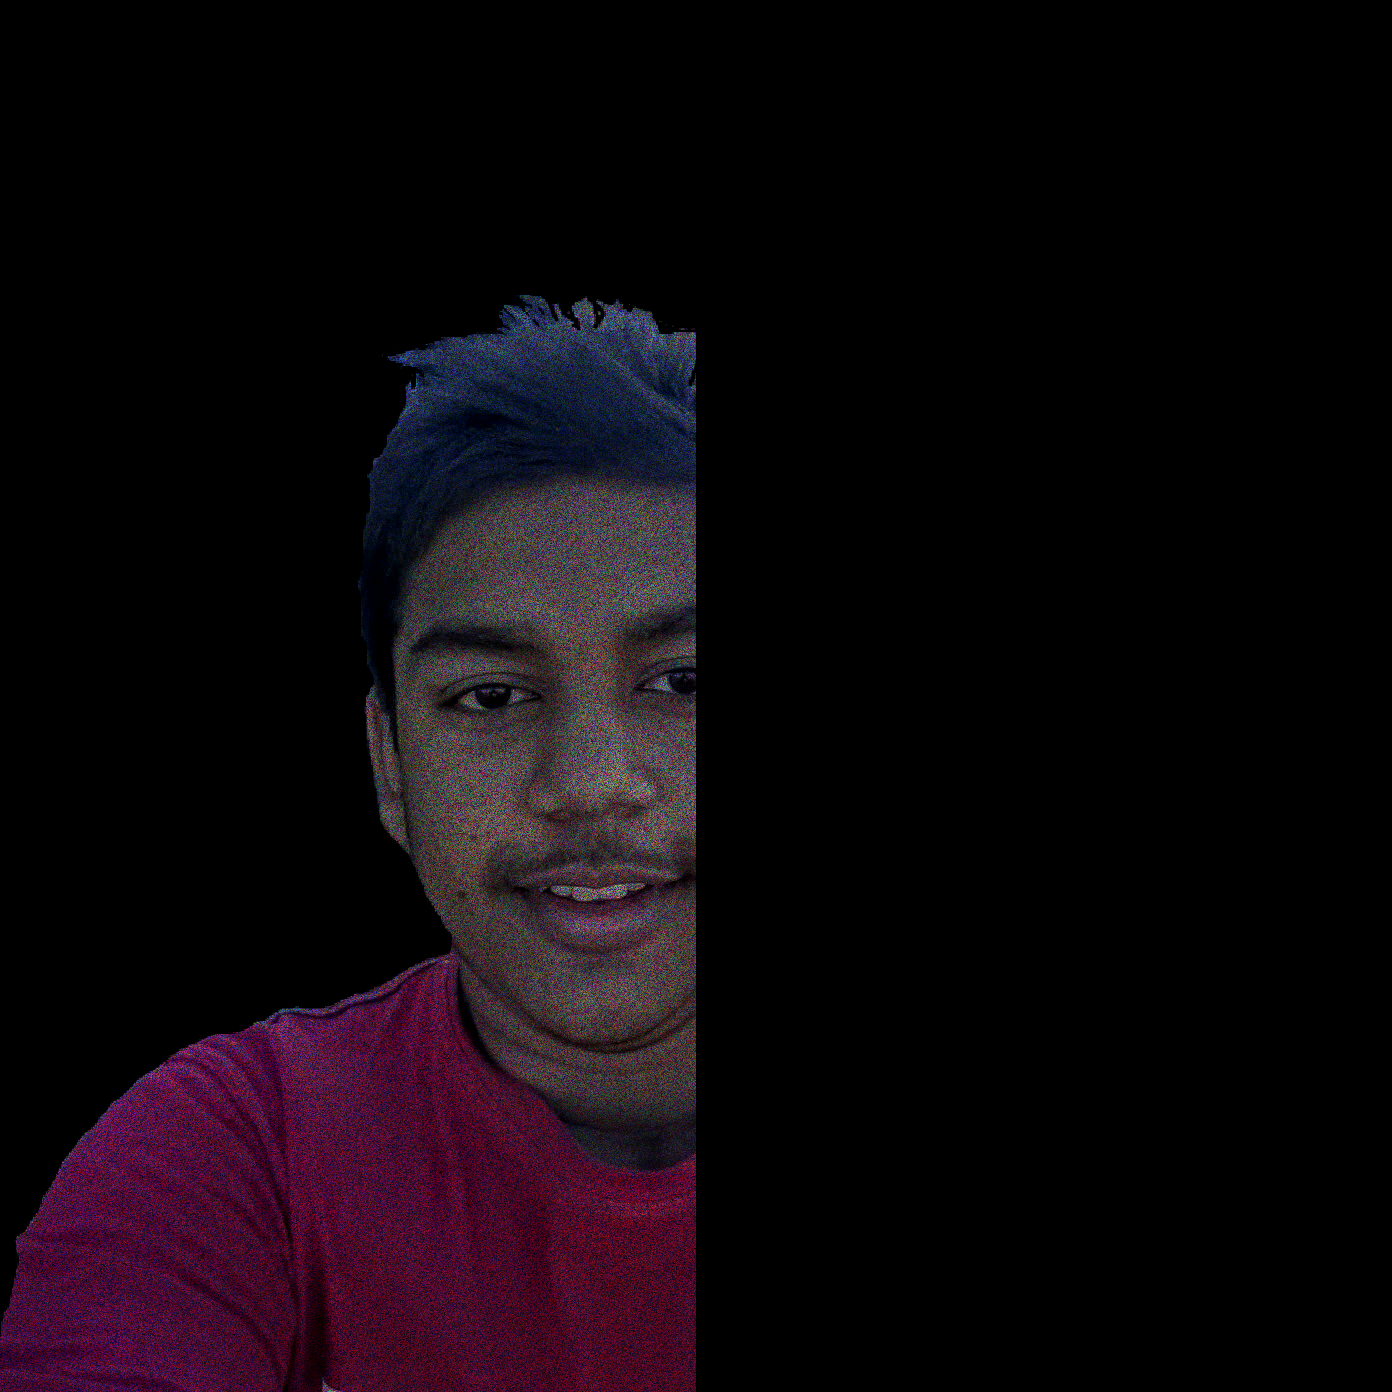
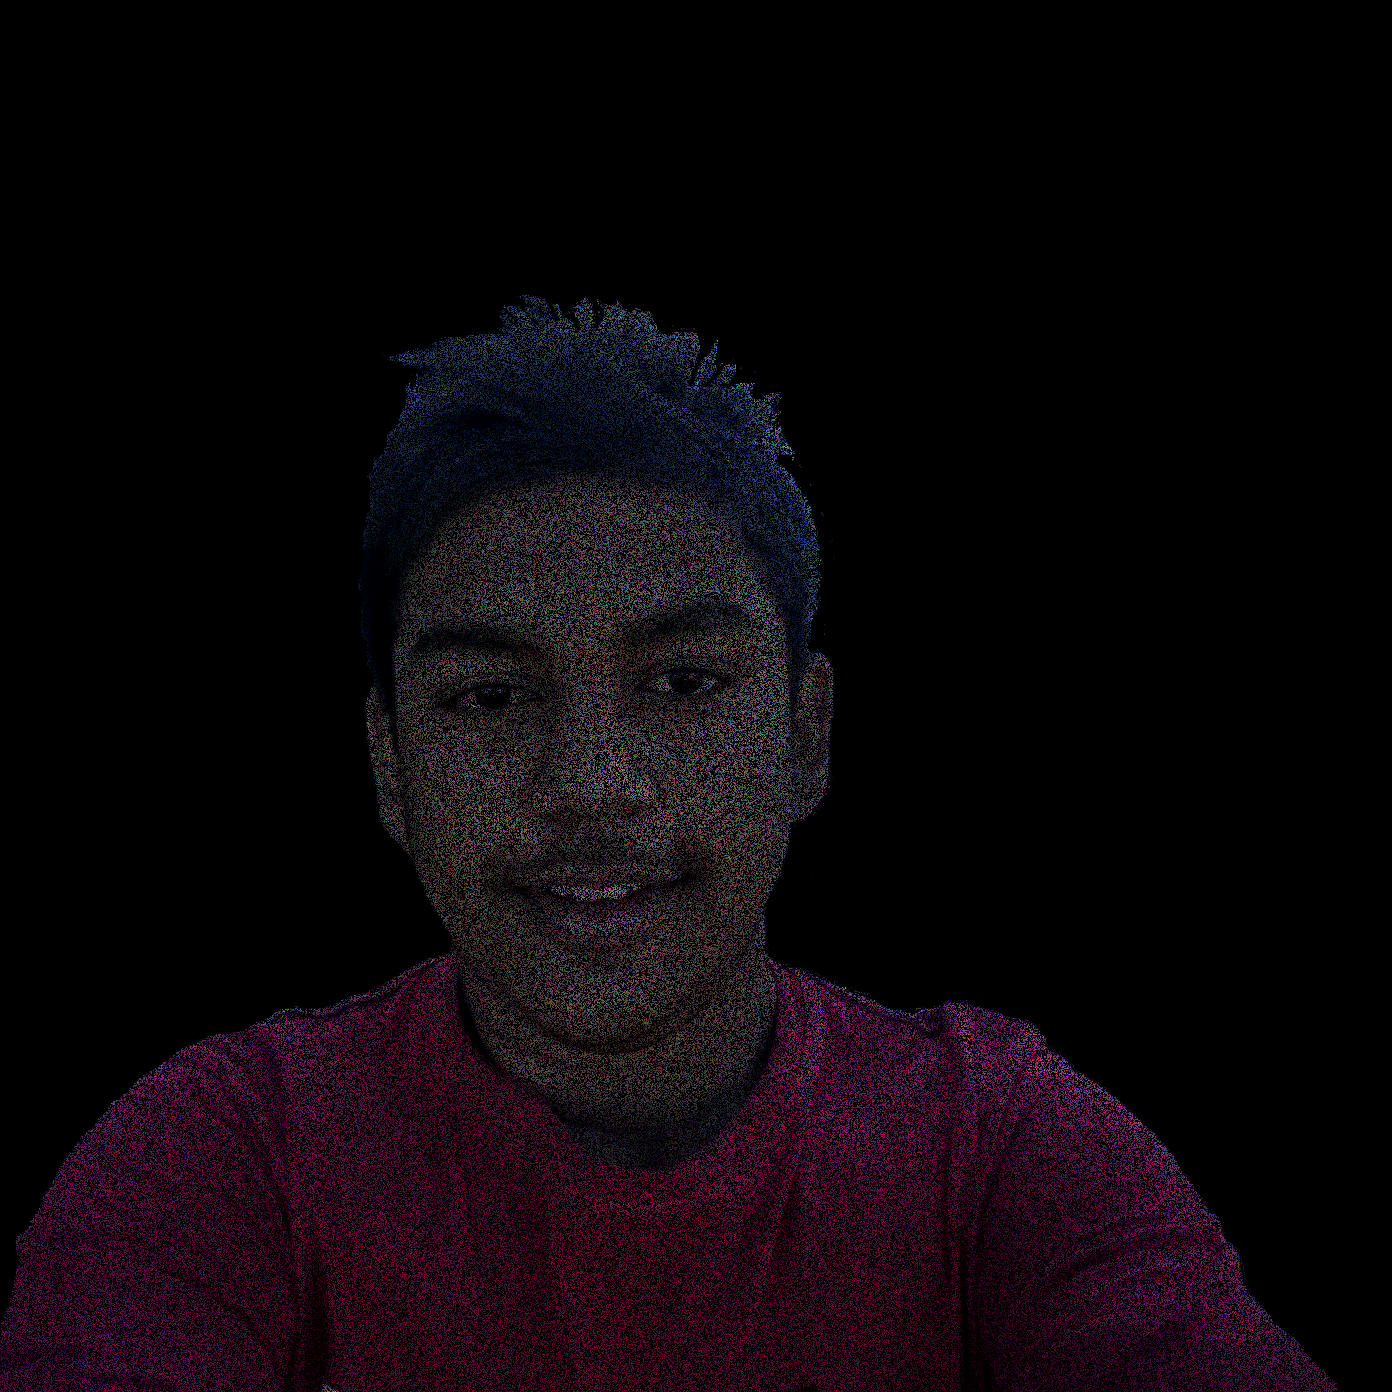
##duplicate Images

Changed region(s): [[0.0, 0.2162, 0.9576, 1.0]]

diff --git a/Retrove/testing /testing.py b/Retrove/testing /testing.py
@@ -1,5 +1,5 @@
 from PIL import Image, ImageDraw
-from random import randrange, triangular
+from random import randrange, triangular, choice
 
 # Can be many different formats.
 imag = Image.open('/Users/atikul/Downloads/626201613142.png')
@@ -23,7 +23,7 @@ def inverse_pixalate_color(pix):
     red = round(triangular(-1, pix[0]))
     green = round(triangular(-1, pix[1]))
     blue = round(triangular(-1, pix[2]))
-    return (red, green, blue)
+    return (choice([(0, 0, 0), (red, green, blue)]))
 
 
 def blue_filter(pix):
@@ -56,12 +56,11 @@ def blacknwhite(pix):
 def filter_im(filtername):
     # print(args)
     global imag, pix
- 
     list(map(lambda y: list(map(lambda x: draw.point([x, y], fill=(
         filtername(pix[x, y]))), range(imag.size[1]))),  range(imag.size[0])))
     imag = im
     pix = imag.load()
-    print(filtername, "Complete")
+    print(str(filtername), "Complete")
 
 
 filter_im(inverse_pixalate_color)
@@ -72,3 +71,4 @@ filter_im(inverse_pixalate_color)
 # filter_im(blacknwhite)
 
 im.save("wall.png")
+im.show()
